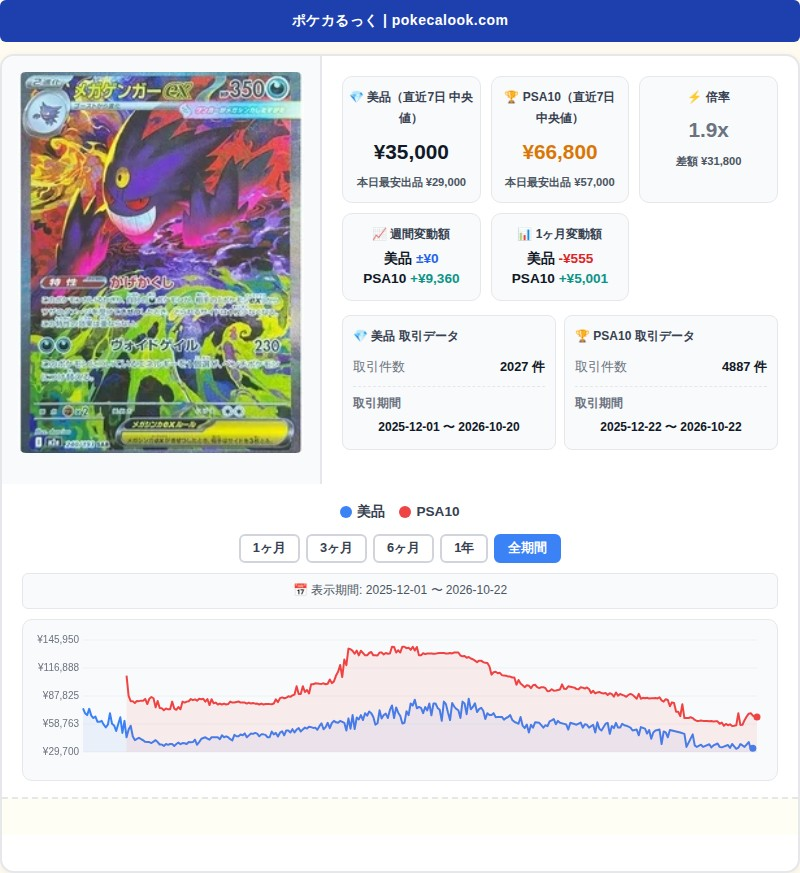
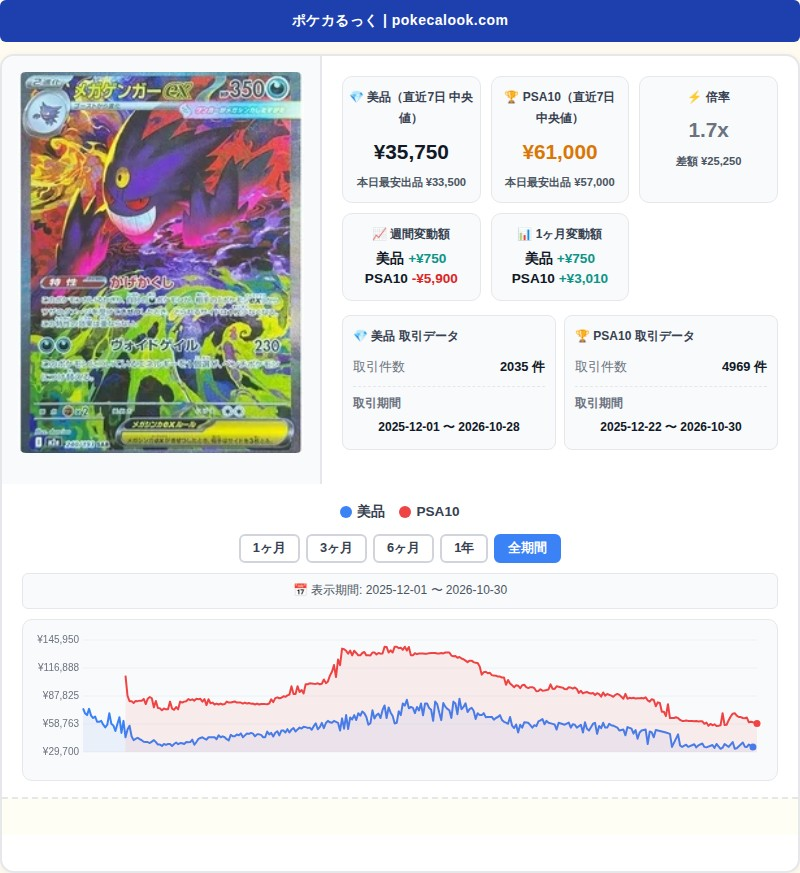
Update tweet texts 2026-10-30

diff --git a/tweets.html b/tweets.html
@@ -1,22 +1,22 @@
-<!DOCTYPE html><html lang="ja"><head><meta charset="utf-8"><meta name="viewport" content="width=device-width,initial-scale=1"><meta name="robots" content="noindex,nofollow"><title>Xポスト文 - ポケカるっく</title><style>*{margin:0;padding:0;box-sizing:border-box}body{font-family:-apple-system,sans-serif;background:#0f172a;color:#e2e8f0;padding:20px}.wrap{max-width:900px;margin:0 auto}h1{font-size:1.3rem;margin-bottom:8px;color:#38bdf8}.meta{color:#64748b;font-size:.8rem;margin-bottom:20px}.grid{display:flex;flex-direction:column;gap:16px}.tw{background:#1e293b;border:1px solid #334155;border-radius:12px;padding:16px}.tw-body{white-space:pre-wrap;font-size:.85rem;line-height:1.6;font-family:inherit;color:#f1f5f9;margin-bottom:12px}.tw-btns{display:flex;gap:8px;flex-wrap:wrap}.tw-copy,.tw-dl{padding:8px 16px;background:#2563eb;color:#fff;border:none;border-radius:8px;font-size:.8rem;font-weight:600;cursor:pointer;text-decoration:none;display:inline-block}.tw-copy:hover{background:#1d4ed8}.tw-copy.done{background:#059669}.tw-dl{background:#7c3aed;margin-top:8px}.char-count{color:#64748b;font-size:.75rem;margin-top:4px}</style></head><body><div class="wrap"><h1>📝 今日のXポスト文</h1><p class="meta">生成日時: 2026/10/30 08:24 JST ｜ 画像付きで投稿</p><div class="grid"><div class="tw"><pre class="tw-body" id="tw0">📊 本日のポケカ指数
+<!DOCTYPE html><html lang="ja"><head><meta charset="utf-8"><meta name="viewport" content="width=device-width,initial-scale=1"><meta name="robots" content="noindex,nofollow"><title>Xポスト文 - ポケカるっく</title><style>*{margin:0;padding:0;box-sizing:border-box}body{font-family:-apple-system,sans-serif;background:#0f172a;color:#e2e8f0;padding:20px}.wrap{max-width:900px;margin:0 auto}h1{font-size:1.3rem;margin-bottom:8px;color:#38bdf8}.meta{color:#64748b;font-size:.8rem;margin-bottom:20px}.grid{display:flex;flex-direction:column;gap:16px}.tw{background:#1e293b;border:1px solid #334155;border-radius:12px;padding:16px}.tw-body{white-space:pre-wrap;font-size:.85rem;line-height:1.6;font-family:inherit;color:#f1f5f9;margin-bottom:12px}.tw-btns{display:flex;gap:8px;flex-wrap:wrap}.tw-copy,.tw-dl{padding:8px 16px;background:#2563eb;color:#fff;border:none;border-radius:8px;font-size:.8rem;font-weight:600;cursor:pointer;text-decoration:none;display:inline-block}.tw-copy:hover{background:#1d4ed8}.tw-copy.done{background:#059669}.tw-dl{background:#7c3aed;margin-top:8px}.char-count{color:#64748b;font-size:.75rem;margin-top:4px}</style></head><body><div class="wrap"><h1>📝 今日のXポスト文</h1><p class="meta">生成日時: 2026/10/31 07:45 JST ｜ 画像付きで投稿</p><div class="grid"><div class="tw"><pre class="tw-body" id="tw0">📊 ポケカ指数アップデート
 
-10月29日時点
-✨ 美品指数: ¥20,000（前日比+¥100 / +0.5%）
-💎 PSA10指数: ¥80,000（前日比+¥1 / +0.0%）</pre>
+10月30日時点
+✨ 美品指数: ¥18,500（前日比±¥0 / +0.0%）
+💎 PSA10指数: ¥80,500（前日比+¥500 / +0.62%）</pre>
 <div class="tw-btns"><button class="tw-copy" onclick="copyTw(0)">📋 ポスト文コピー</button></div>
 <div style="margin-top:8px"><img src="images/tw_index.jpg" style="max-width:300px;max-height:400px;object-fit:cover;border-radius:8px"><br><a href="images/tw_index.jpg" download="tweet_0.jpg" class="tw-dl">📥 画像を保存</a></div></div>
-<div class="tw"><pre class="tw-body" id="tw1">⚡ ミュウex FUR [M6a 135/103]、直近の値動きが気になります
+<div class="tw"><pre class="tw-body" id="tw1">⚡ ルギア [M6a 142/103]、美品とPSA10で明暗が分かれています
 
-💎 PSA10: ¥83,500（1週間で+¥8,500）
-✨ 美品: ¥8,000（1週間で-¥1,900）</pre>
+💎 PSA10: 13万（週間+¥20,000）
+✨ 美品: 2万（週間-¥1,000）</pre>
 <div class="tw-btns"><button class="tw-copy" onclick="copyTw(1)">📋 ポスト文コピー</button></div>
-<div style="margin-top:8px"><img src="images/tw_881429.jpg" style="max-width:300px;max-height:400px;object-fit:cover;border-radius:8px"><br><a href="images/tw_881429.jpg" download="tweet_1.jpg" class="tw-dl">📥 画像を保存</a></div></div>
-<div class="tw"><pre class="tw-body" id="tw2">🔀 メガリザードンXex SAR、PSA10と美品で真逆の動き
+<div style="margin-top:8px"><img src="images/tw_886017.jpg" style="max-width:300px;max-height:400px;object-fit:cover;border-radius:8px"><br><a href="images/tw_886017.jpg" download="tweet_1.jpg" class="tw-dl">📥 画像を保存</a></div></div>
+<div class="tw"><pre class="tw-body" id="tw2">⚡ メガゲンガーex SAR、直近の値動きが気になります
 
-💎 PSA10: ¥128,250（週間-¥3,749）
-✨ 美品: ¥79,999（週間+¥1,999）</pre>
+✨ 美品: ¥35,750（1週間で+¥750）
+💎 PSA10: ¥61,000（1週間で-¥5,900）</pre>
 <div class="tw-btns"><button class="tw-copy" onclick="copyTw(2)">📋 ポスト文コピー</button></div>
-<div style="margin-top:8px"><img src="images/tw_704401.jpg" style="max-width:300px;max-height:400px;object-fit:cover;border-radius:8px"><br><a href="images/tw_704401.jpg" download="tweet_2.jpg" class="tw-dl">📥 画像を保存</a></div></div>
+<div style="margin-top:8px"><img src="images/tw_724996.jpg" style="max-width:300px;max-height:400px;object-fit:cover;border-radius:8px"><br><a href="images/tw_724996.jpg" download="tweet_2.jpg" class="tw-dl">📥 画像を保存</a></div></div>
 </div></div><script>
 function copyTw(i){const el=document.getElementById('tw'+i);const ta=document.createElement('textarea');ta.value=el.textContent;ta.style.cssText='position:fixed;left:-9999px';document.body.appendChild(ta);ta.select();document.execCommand('copy');document.body.removeChild(ta);const btn=el.parentElement.querySelector('.tw-copy');btn.textContent='✅ コピー済み';btn.classList.add('done');setTimeout(()=>{btn.textContent='📋 ポスト文コピー';btn.classList.remove('done')},2000)}
 </script></body></html>
